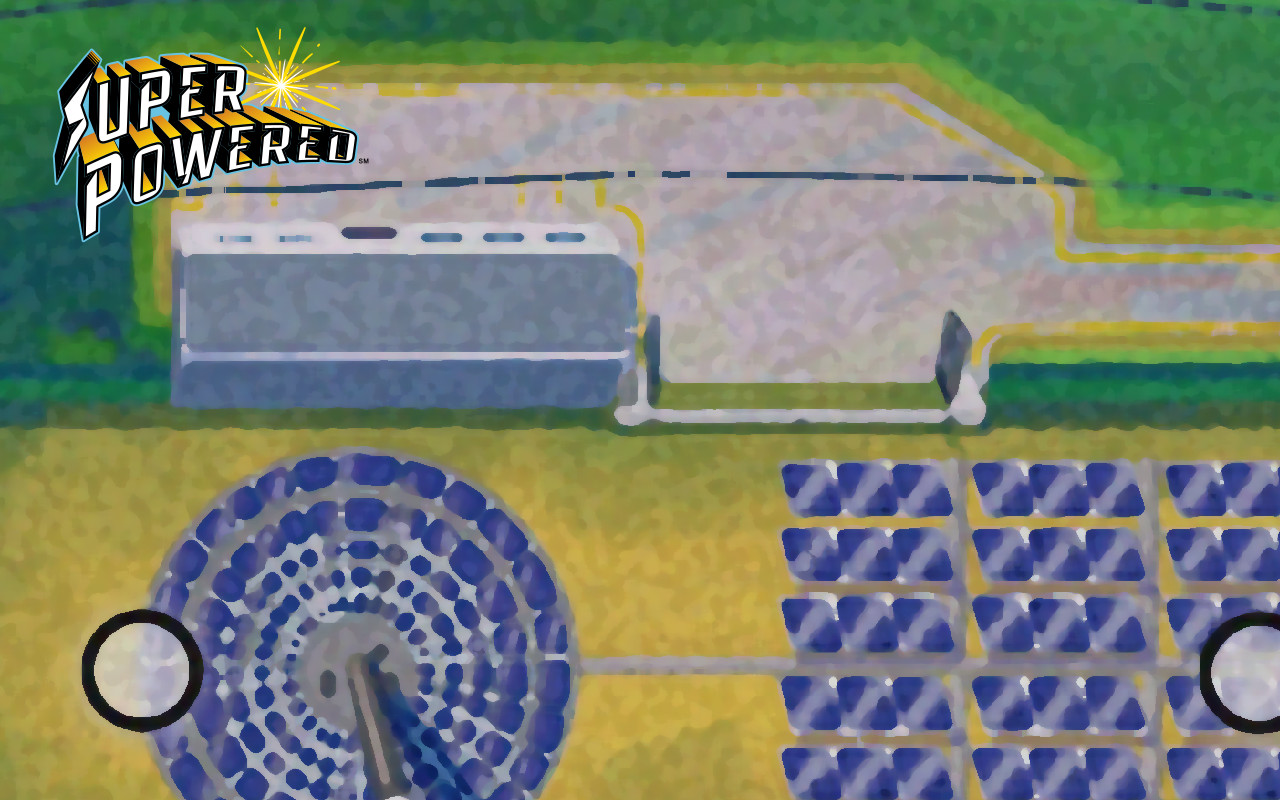
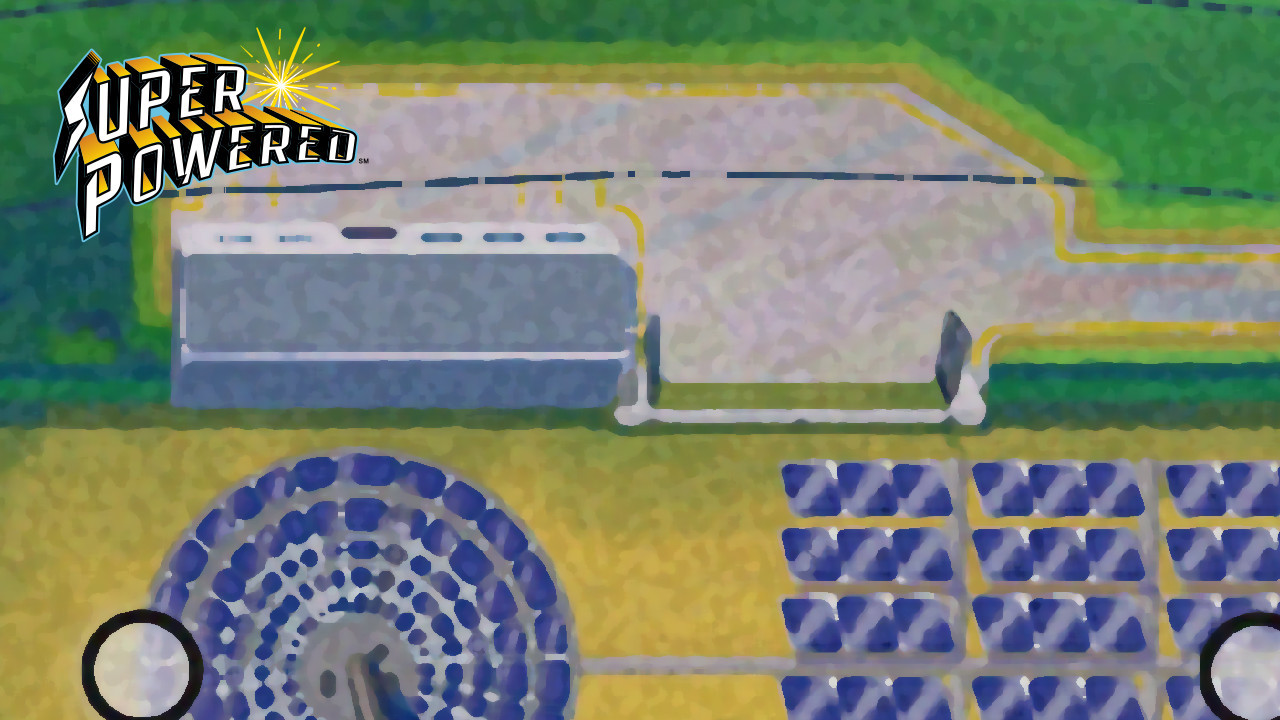
Ajuste para edicion

diff --git a/static/style.css b/static/style.css
@@ -2,7 +2,7 @@ body.horario {
     background-image: url("/static/fondo-horario.jpg");
     background-repeat: no-repeat;
     width: 1280px;
-    height: 800px;
+    height: 720px;
     /* Estos es para evitar las barras de desplazamiento del navegador */
     overflow: hidden;
     margin-left: 0px;
@@ -60,7 +60,7 @@ table.horariopublico td {
     border: 3px solid black;
     padding: 1em;
     height: 1em;
-    font-size: 2em;
+    font-size: 1em;
     font-weight: bold;
     padding: 0.4em;
 }
